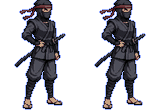
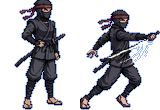
版9：駆け抜けの絵

Changed region(s): [[0.5, 0.0, 1.0, 1.0]]

diff --git a/src/scenes/PlayScene.js b/src/scenes/PlayScene.js
@@ -1,18 +1,18 @@
 // 遊ぶ画面（key 'play'・scene.start('play', {index})）
 // 押す＝忍者の場所から線を引き始める／動かす＝線を伸ばす（墨が切れたら先が赤く光って止まる）／離す＝resolveDash を1回だけ呼び、結果を絵にする
 // 線を引いている間は敵の時間が DRAW_SLOW 倍。指は1本だけ（線の途中の2本目は無視＝Review Focus 3）
-import { t } from '../i18n/i18n.js?v=8';
-import { textStyle, buttonStyle, GOLD } from '../ui/text.js?v=8';
-import { crisp } from '../ui/pixel.js?v=8';
-import { play as sfx } from '../ui/sfx.js?v=8';
-import { W, H, DASH_SPEED, HITSTOP, DRAW_SLOW, HERO_FRAME } from '../config.js?v=8';
-import { startStroke, addPoint, isSwipe, pointAt } from '../core/path.js?v=8';
-import { resolveDash, foePos, starsFor } from '../core/dash.js?v=8';
-import { loadSave, writeSave, recordClear, learnKaton, markSeen, recordScore, totalBest } from '../core/save.js?v=8';
-import { killPoints, BOSS_HIT, BOSS_KILL, timeBonus, roomScore } from '../core/score.js?v=8';
-import { STAGES, katonFor } from '../data/stages.js?v=8';
-import { FOES, foeFlags, needsJutsu, badgeMarks } from '../data/foes.js?v=8';
-import { platformStore, sendScore } from '../platform.js?v=8';
+import { t } from '../i18n/i18n.js?v=9';
+import { textStyle, buttonStyle, GOLD } from '../ui/text.js?v=9';
+import { crisp } from '../ui/pixel.js?v=9';
+import { play as sfx } from '../ui/sfx.js?v=9';
+import { W, H, DASH_SPEED, HITSTOP, DRAW_SLOW, HERO_FRAME } from '../config.js?v=9';
+import { startStroke, addPoint, isSwipe, pointAt } from '../core/path.js?v=9';
+import { resolveDash, foePos, starsFor } from '../core/dash.js?v=9';
+import { loadSave, writeSave, recordClear, learnKaton, markSeen, recordScore, totalBest } from '../core/save.js?v=9';
+import { killPoints, BOSS_HIT, BOSS_KILL, timeBonus, roomScore } from '../core/score.js?v=9';
+import { STAGES, katonFor } from '../data/stages.js?v=9';
+import { FOES, foeFlags, needsJutsu, badgeMarks } from '../data/foes.js?v=9';
+import { platformStore, sendScore } from '../platform.js?v=9';
 
 const LINE = 0x96dcff, RED = 0xe0503c;
 
@@ -154,7 +154,7 @@ export class PlayScene extends Phaser.Scene {
     this.wt += dt;
     const p = pointAt(D.points, D.d);
     const left = Math.cos(p.ang) < 0;
-    this.hero.setPosition(p.x, p.y).setFrame(1).setFlipX(left).setAngle(left ? -14 : 14); // 駆けの絵が届くまでは立ち姿を前へ傾ける
+    this.hero.setPosition(p.x, p.y).setFrame(1).setFlipX(left); // 駆け抜けの絵（左へ走る時は左右を反転）
     while (D.ki < D.res.kills.length && D.res.kills[D.ki].d <= D.d) this.slay(D.res.kills[D.ki++].id, D);
     while (D.hi < D.res.hits.length && D.res.hits[D.hi].d <= D.d) this.wound(D.res.hits[D.hi++].id);
     D.bi = D.bi ?? 0;

diff --git a/src/main.js b/src/main.js
@@ -1,12 +1,12 @@
 // src/main.js — 言葉と記録を決めて Phaser を始める（相撲ゲームの main.js と同じ分かれ道・同意書と♪の札は無い）
-import { TitleScene } from './scenes/TitleScene.js?v=8';
-import { PlayScene } from './scenes/PlayScene.js?v=8';
-import { MapScene } from './scenes/MapScene.js?v=8';
-import { CollectionScene } from './scenes/CollectionScene.js?v=8';
-import { ClearScene } from './scenes/ClearScene.js?v=8';
-import { initLang, setLang } from './i18n/i18n.js?v=8';
-import { isPlayables, initPlatform, playablesLang, platformStore, onYtPause } from './platform.js?v=8';
-import { W, H } from './config.js?v=8';
+import { TitleScene } from './scenes/TitleScene.js?v=9';
+import { PlayScene } from './scenes/PlayScene.js?v=9';
+import { MapScene } from './scenes/MapScene.js?v=9';
+import { CollectionScene } from './scenes/CollectionScene.js?v=9';
+import { ClearScene } from './scenes/ClearScene.js?v=9';
+import { initLang, setLang } from './i18n/i18n.js?v=9';
+import { isPlayables, initPlatform, playablesLang, platformStore, onYtPause } from './platform.js?v=9';
+import { W, H } from './config.js?v=9';
 
 export const SCENES = [TitleScene, MapScene, PlayScene, CollectionScene, ClearScene];
 

diff --git a/src/scenes/ClearScene.js b/src/scenes/ClearScene.js
@@ -1,12 +1,12 @@
 // 武家屋敷のクリア（key 'clear'）：星の合計・点数の合計・「次の場所は作っている途中」（Playables の決まり＝続きが無いと分かる）
-import { t } from '../i18n/i18n.js?v=8';
-import { textStyle, buttonStyle, GOLD } from '../ui/text.js?v=8';
-import { crisp } from '../ui/pixel.js?v=8';
-import { W, H, HERO_FRAME } from '../config.js?v=8';
-import { loadSave, clearSummary } from '../core/save.js?v=8';
-import { STAGES } from '../data/stages.js?v=8';
-import { platformStore } from '../platform.js?v=8';
-import { play as sfx } from '../ui/sfx.js?v=8';
+import { t } from '../i18n/i18n.js?v=9';
+import { textStyle, buttonStyle, GOLD } from '../ui/text.js?v=9';
+import { crisp } from '../ui/pixel.js?v=9';
+import { W, H, HERO_FRAME } from '../config.js?v=9';
+import { loadSave, clearSummary } from '../core/save.js?v=9';
+import { STAGES } from '../data/stages.js?v=9';
+import { platformStore } from '../platform.js?v=9';
+import { play as sfx } from '../ui/sfx.js?v=9';
 
 export class ClearScene extends Phaser.Scene {
   constructor() { super('clear'); }

diff --git a/src/scenes/CollectionScene.js b/src/scenes/CollectionScene.js
@@ -1,12 +1,12 @@
 // 図鑑（key 'collection'）：2列×5段の札・押すと説明・まだ出会っていない物は「？」
-import { t } from '../i18n/i18n.js?v=8';
-import { textStyle, buttonStyle, GOLD } from '../ui/text.js?v=8';
-import { crisp } from '../ui/pixel.js?v=8';
-import { W, H, HERO_FRAME } from '../config.js?v=8';
-import { loadSave } from '../core/save.js?v=8';
-import { COLLECTION, visible } from '../data/collection.js?v=8';
-import { FOES } from '../data/foes.js?v=8';
-import { platformStore } from '../platform.js?v=8';
+import { t } from '../i18n/i18n.js?v=9';
+import { textStyle, buttonStyle, GOLD } from '../ui/text.js?v=9';
+import { crisp } from '../ui/pixel.js?v=9';
+import { W, H, HERO_FRAME } from '../config.js?v=9';
+import { loadSave } from '../core/save.js?v=9';
+import { COLLECTION, visible } from '../data/collection.js?v=9';
+import { FOES } from '../data/foes.js?v=9';
+import { platformStore } from '../platform.js?v=9';
 
 export class CollectionScene extends Phaser.Scene {
   constructor() { super('collection'); }

diff --git a/src/scenes/MapScene.js b/src/scenes/MapScene.js
@@ -1,11 +1,11 @@
 // 間を選ぶ（key 'map'）：武家屋敷の10の間を2列×5段・星・開いていない間は鍵・図鑑へ
-import { t } from '../i18n/i18n.js?v=8';
-import { textStyle, buttonStyle, GOLD } from '../ui/text.js?v=8';
-import { crisp } from '../ui/pixel.js?v=8';
-import { W } from '../config.js?v=8';
-import { loadSave, isOpen } from '../core/save.js?v=8';
-import { STAGES } from '../data/stages.js?v=8';
-import { platformStore } from '../platform.js?v=8';
+import { t } from '../i18n/i18n.js?v=9';
+import { textStyle, buttonStyle, GOLD } from '../ui/text.js?v=9';
+import { crisp } from '../ui/pixel.js?v=9';
+import { W } from '../config.js?v=9';
+import { loadSave, isOpen } from '../core/save.js?v=9';
+import { STAGES } from '../data/stages.js?v=9';
+import { platformStore } from '../platform.js?v=9';
 
 export class MapScene extends Phaser.Scene {
   constructor() { super('map'); }

diff --git a/src/core/dash.js b/src/core/dash.js
@@ -1,9 +1,9 @@
 // 駆け抜けの結果（画面から離した純粋な関数・tests/dash.test.js）
 // 指を離した時に1回だけ呼び、結果を画面が絵にする（一時停止で途中から戻っても同じ結果＝Review Focus 4）
 // 敵 foe = {id, x, y, move?: {dx, dy, period}, shield?: true, hp?: number}（shield と hp は呼ぶ側が敵の表から写して渡す）
-import { DASH_SPEED, HIT_R, TRAP_R } from '../config.js?v=8';
-import { pathLength, pointAt } from './path.js?v=8';
-import { findLoop, inside } from './jutsu.js?v=8';
+import { DASH_SPEED, HIT_R, TRAP_R } from '../config.js?v=9';
+import { pathLength, pointAt } from './path.js?v=9';
+import { findLoop, inside } from './jutsu.js?v=9';
 
 const SAMPLE = 10; // 線の上を何 px ごとに見るか
 

diff --git a/src/scenes/TitleScene.js b/src/scenes/TitleScene.js
@@ -1,8 +1,8 @@
 // 表紙：題・ひと言・「たたいて始める」。描いたら YouTube に firstFrameReady、たたける時に gameReady
-import { t } from '../i18n/i18n.js?v=8';
-import { textStyle, GOLD } from '../ui/text.js?v=8';
-import { W, H } from '../config.js?v=8';
-import { signalFirstFrame, signalGameReady } from '../platform.js?v=8';
+import { t } from '../i18n/i18n.js?v=9';
+import { textStyle, GOLD } from '../ui/text.js?v=9';
+import { W, H } from '../config.js?v=9';
+import { signalFirstFrame, signalGameReady } from '../platform.js?v=9';
 
 export class TitleScene extends Phaser.Scene {
   constructor() { super('title'); }

diff --git a/src/data/stages.js b/src/data/stages.js
@@ -2,7 +2,7 @@
 // 1〜5＝一の太刀／6＝火遁を覚える（ぬりかべの固まり）／7〜9＝混ぜ／10＝ボス化け猫（hp 3）
 // solution＝★3の答えの線（at＝指を離す時刻・秒）。tests/stages.test.js が答えを流して「★3で解ける」を確かめる
 // 動く敵は move（dx, dy, period）。答えは動く敵がいちばん端にいる時（sin＝1・動きがいちばん遅い所）に通す
-import { INK } from '../config.js?v=8';
+import { INK } from '../config.js?v=9';
 
 const P = (x, y) => ({ x, y });
 // 輪の線：下（cx, cy+r）から始めて1周（火遁）

diff --git a/src/core/path.js b/src/core/path.js
@@ -1,6 +1,6 @@
 // 線の計算（画面から離した純粋な関数・tests/path.test.js）
 // 線は忍者の今の場所から始まる。墨（ink）を使い切ったら、その所で止まり clipped=true（その後の指の動きは線にならない＝本人の決定）
-import { W, H, MIN_STROKE, STEP } from '../config.js?v=8';
+import { W, H, MIN_STROKE, STEP } from '../config.js?v=9';
 
 const dist = (a, b) => Math.hypot(b.x - a.x, b.y - a.y);
 

diff --git a/src/ui/sfx.js b/src/ui/sfx.js
@@ -1,5 +1,5 @@
 // 効果音（合成・音のファイルなし・小さめ）。Playables では YouTube の消音に従う
-import { isPlayables, ytAudioEnabled, onYtAudioChange } from '../platform.js?v=8';
+import { isPlayables, ytAudioEnabled, onYtAudioChange } from '../platform.js?v=9';
 
 let ac = null, muted = isPlayables() ? !ytAudioEnabled() : false;
 if (isPlayables()) onYtAudioChange((on) => { muted = !on; });

diff --git a/src/i18n/i18n.js b/src/i18n/i18n.js
@@ -1,6 +1,6 @@
 // 言葉の切り替えと文の引き方。画面の文字は全部ここを通す（英語が先・分からない言葉は英語）
-import ja from './ja.js?v=8';
-import en from './en.js?v=8';
+import ja from './ja.js?v=9';
+import en from './en.js?v=9';
 
 export const TABLES = { ja, en };
 export const LANGS = ['en', 'ja'];

diff --git a/index.html b/index.html
@@ -17,6 +17,6 @@
 <body>
 <div id="game"></div>
 <script src="vendor/phaser.min.js"></script>
-<script type="module" src="src/main.js?v=8"></script>
+<script type="module" src="src/main.js?v=9"></script>
 </body>
 </html>
